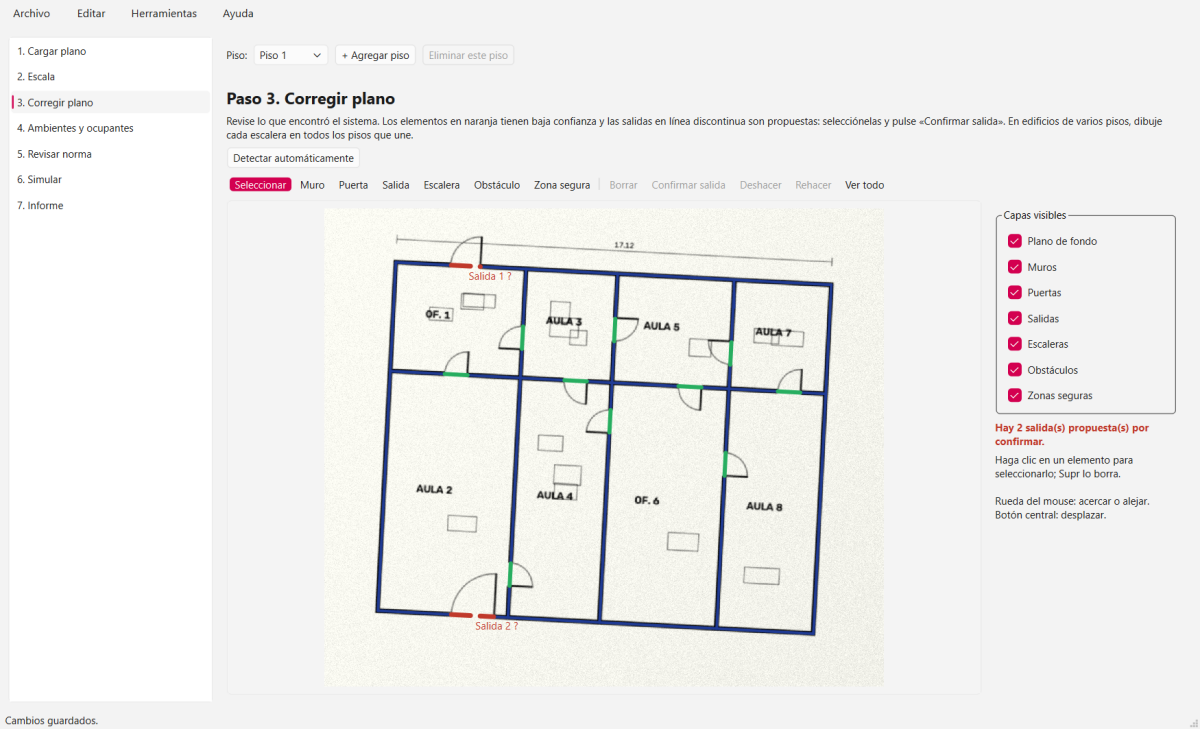
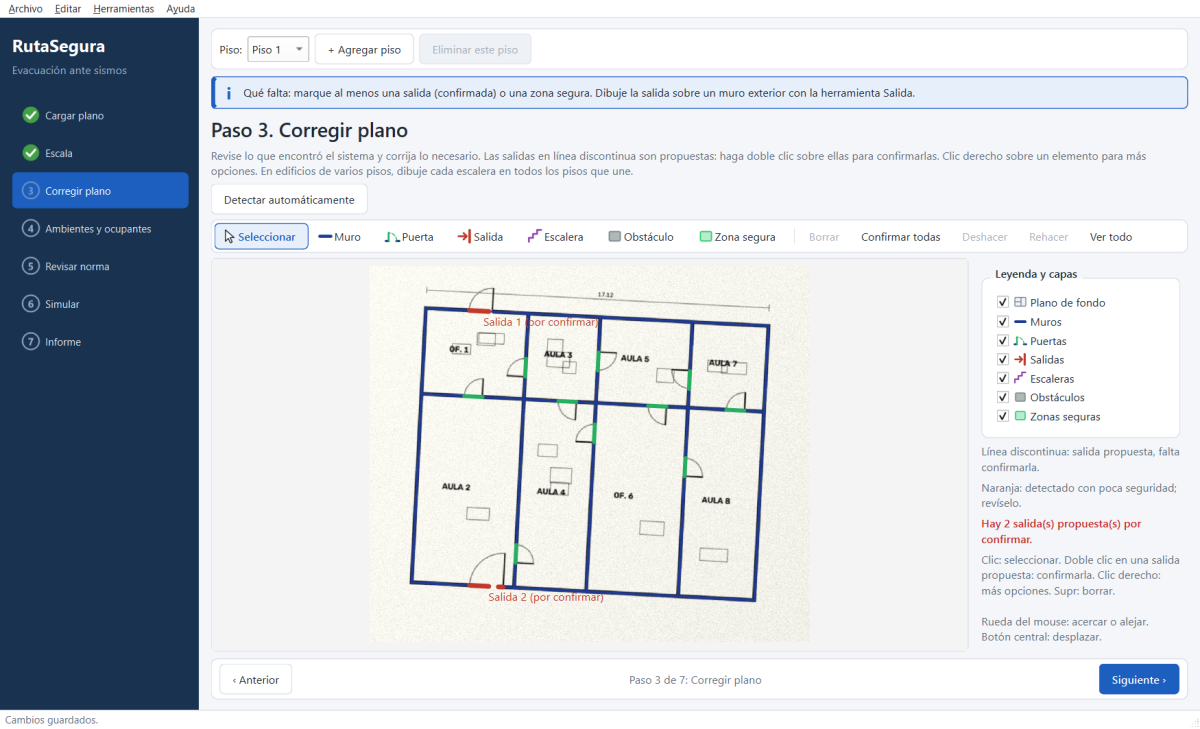
docs: manual, capturas, CHANGELOG y ADR-034 de la interfaz amigable

diff --git a/scripts/capture_screenshots.py b/scripts/capture_screenshots.py
@@ -1,6 +1,6 @@
 """Genera las capturas del manual de usuario (docs/img/*.png) con un plano sintético.
 
-Uso:  uv run python scripts/capture_screenshots.py
+Uso:  uv run python scripts/capture_screenshots.py [carpeta_de_salida]
 Trabaja en una base de datos temporal; no toca los proyectos del usuario.
 """
 
@@ -30,6 +30,7 @@ from rutasegura.presentation.main_window import (  # noqa: E402
     STEP_SIMULATE,
     MainWindow,
 )
+from rutasegura.presentation.theme import apply_theme  # noqa: E402
 from tests.fixtures.synthetic_plans import generate_plan  # noqa: E402
 
 OUT = ROOT / "docs" / "img"
@@ -52,8 +53,12 @@ def offscreen(widget: QWidget, width: int = 1400, height: int = 850) -> None:
 
 
 def main() -> None:
+    global OUT
+    if len(sys.argv) > 1:
+        OUT = Path(sys.argv[1])
     OUT.mkdir(parents=True, exist_ok=True)
     app = QApplication(sys.argv[:1])
+    apply_theme(app)
     with tempfile.TemporaryDirectory() as tmp:
         services = AppServices.open(Path(tmp) / "db" / "rs.db")
         try:
@@ -130,6 +135,10 @@ def capture(app: QApplication, services: AppServices, tmp: Path) -> None:
 
     w.go_to_step(STEP_REPORT)
     save(app, w, "09_informe")
+
+    w.add_floor()  # piso 2: selector de pisos y guía del paso 1
+    w.load_page.open_file(plan_file)
+    save(app, w, "10_varios_pisos")
     w._dirty = w._scenario_dirty = False
     w.close()
 

diff --git a/docs/manual_usuario.md b/docs/manual_usuario.md
@@ -44,10 +44,22 @@ Un **proyecto** es un local: un colegio, una oficina o una tienda.
 
 - **Proyecto nuevo:** use **Crear un proyecto nuevo** (o el menú Archivo › Nuevo proyecto) y
   escriba el nombre, el tipo de local y, si quiere, la dirección.
-- **Proyecto existente:** use **Abrir un proyecto existente**.
+- **Proyecto existente:** haga doble clic sobre él en la lista **Sus proyectos**, o use **Abrir
+  otro proyecto…**.
 
 Los cambios se guardan solos cada vez que pasa de un paso a otro y al cerrar el programa. También
 puede guardar con **Ctrl+S**.
+
+### Cómo lo guía el programa
+
+- **Barra de pasos (izquierda):** cada paso muestra un círculo con su número. Se vuelve un **✓
+  verde** cuando el paso está completo y un **! ámbar** cuando conviene revisar algo.
+- **Recuadro «Qué falta» (arriba):** dice qué le falta al paso en que está. Si falta algo de un
+  paso anterior, ofrece un botón para ir a ese paso, por ejemplo **Ir al paso 2**.
+- **Anterior / Siguiente (abajo):** pasan de un paso a otro. Puede saltar a cualquier paso desde
+  la barra de la izquierda.
+- **Mensajes:** los errores y avisos aparecen como una franja de color dentro de la ventana, no
+  como ventanas emergentes. Ciérrelos con **×**.
 
 ---
 
@@ -92,26 +104,44 @@ Al entrar, el programa **busca automáticamente** muros, puertas y salidas. Revi
 | Azul | Muro |
 | Verde | Puerta |
 | Rojo | Salida |
+| Morado | Escalera |
+| Gris | Obstáculo (mueble) |
+| Verde claro | Zona segura |
 | Naranja discontinuo | Algo que el programa no está seguro de haber detectado bien |
+
+El recuadro **Leyenda y capas** (a la derecha) repite estos colores. Cada casilla oculta o muestra
+un tipo de elemento.
 
 ### Herramientas
 
-| Herramienta | Qué hace |
-|---|---|
-| **Seleccionar** | Hace clic sobre un elemento para elegirlo. **Supr** lo borra. |
-| **Muro, Puerta, Salida** | Arrastre para dibujar. Con **Mayús** la línea queda recta. |
-| **Escalera, Obstáculo, Zona segura** | Arrastre para dibujar un rectángulo. |
-| **Deshacer / Rehacer** | Ctrl+Z / Ctrl+Y. |
-| **Ver todo** | Muestra el plano completo. |
+| Herramienta | Tecla | Qué hace |
+|---|---|---|
+| **Seleccionar** | V | Clic para elegir un elemento. **Supr** lo borra. |
+| **Muro** | M | Arrastre para dibujar. Con **Mayús** la línea queda recta. |
+| **Puerta** | P | Arrastre sobre el muro: se encaja sola en él y le abre el hueco. |
+| **Salida** | S | Igual que la puerta, pero sobre un muro exterior. |
+| **Escalera** | E | Arrastre para dibujar un rectángulo. |
+| **Obstáculo** | O | Muebles u objetos que no se pueden atravesar. |
+| **Zona segura** | Z | Patio o explanada a la que se puede evacuar. |
+| **Deshacer / Rehacer** | Ctrl+Z / Ctrl+Y | |
+| **Ver todo** | | Muestra el plano completo. |
 
+- **Clic derecho sobre un elemento:** abre un menú para confirmarlo, cambiarle el nombre o
+  borrarlo.
+- **Doble clic sobre una salida o escalera:** cambia su nombre.
 - **Moverse por el plano:** la rueda del mouse acerca y aleja; el botón central desplaza la vista.
-- **Capas visibles:** permiten ocultar el fondo o un tipo de elemento para ver mejor.
 
 ### Salidas propuestas
 
-Las salidas que encontró el programa aparecen **en línea discontinua con «?»**. Selecciónelas y
-pulse **Confirmar salida**, o bórrelas si no son salidas. No se puede simular con salidas sin
-confirmar.
+Las salidas que encontró el programa aparecen **en línea discontinua, con «(por confirmar)»**.
+
+- **Para confirmar una:** haga **doble clic** sobre ella, o use clic derecho › **Confirmar
+  salida**.
+- **Para confirmarlas todas:** pulse **Confirmar todas**.
+- **Si no es una salida:** bórrela.
+
+Las salidas sin confirmar se tratan como cerradas en la simulación. Las salidas que usted dibuja
+quedan confirmadas.
 
 **Zonas seguras:** si su local tiene una zona segura interna, como un patio, márquela. Las personas
 que llegan a ella cuentan como evacuadas.
@@ -157,10 +187,17 @@ que llegan a ella cuentan como evacuadas.
 2. Al terminar se reproduce la animación.
    - **Controles:** reproducir y pausa, velocidad (0.5× a 8×) y la barra de tiempo.
    - **Mapa de calor:** muestra dónde se acumuló la gente.
-3. A la derecha verá:
+3. A la derecha verá tres tarjetas:
    - el **tiempo total de evacuación**;
-   - el tiempo de cada salida;
-   - los **cuellos de botella**, del más grave al menos grave.
+   - el **tiempo para evacuar al 90 %**;
+   - las **personas evacuadas**.
+
+   El color indica el resultado:
+   - **verde:** salieron todos sin congestión;
+   - **ámbar:** hubo zonas de congestión;
+   - **rojo:** alguien no pudo salir.
+
+   Debajo verá el tiempo de cada salida y los **cuellos de botella**, del más grave al menos grave.
 
 **Semilla:** con la misma semilla y los mismos datos, la simulación da siempre el mismo resultado.
 
@@ -240,9 +277,14 @@ Más detalles en [calibracion.md](calibracion.md).
 Corríjalos en el paso 3. La detección funciona mejor con planos limpios, en blanco y negro y bien
 enfocados. Si la foto está torcida, enderécela en el paso 1.
 
-**Dice que las personas de un ambiente «no tienen una salida alcanzable».**
+**Dice que las personas de un ambiente «no pueden llegar a ninguna salida».**
 Revise que ese ambiente tenga una puerta, que no haya un muro cerrando el paso y que el local
 tenga al menos una salida confirmada.
+
+**Dice que un ambiente «quedó conectado con el exterior».**
+El contorno del edificio tiene un hueco: un muro exterior que no llega a cerrar en una esquina. En
+el paso 3, acerque la vista a las esquinas y dibuje el tramo de muro que falta. Las salidas
+reales se marcan con la herramienta **Salida**, no como puerta.
 
 **Dice que una escalera «no tiene una escalera correspondiente» en otro piso.**
 Dibuje la escalera también en el piso de abajo, en el mismo lugar. Si ese piso tiene varias
@@ -250,7 +292,8 @@ escaleras, dibújelas en el mismo orden que en el piso de arriba para que tengan
 nombres.
 
 **Dice que hay salidas propuestas sin confirmar.**
-Vuelva al paso 3, seleccione las salidas con «?» y pulse **Confirmar salida**, o bórrelas.
+Vuelva al paso 3 y haga doble clic sobre cada salida «(por confirmar)», o pulse **Confirmar
+todas**. Si alguna no es una salida, bórrela.
 
 **Cargué un plano nuevo y desapareció lo que había corregido.**
 Al cargar otra imagen, el plano anterior ya no corresponde. Hay que corregir el plano nuevo.

diff --git a/docs/CHANGELOG.md b/docs/CHANGELOG.md
@@ -4,6 +4,35 @@ Formato basado en [Keep a Changelog](https://keepachangelog.com/es-ES/1.1.0/).
 
 ## [Sin publicar]
 
+### Interfaz más amigable (2026-11-11)
+
+#### Agregado
+- **Tema visual propio:** colores claros, letra más grande, botones redondeados y un botón azul
+  para la acción principal de cada paso. Es local y no descarga fuentes ni íconos.
+- **Barra de pasos con estado:** cada paso muestra ✓ cuando está completo y ! cuando hay algo que
+  revisar. El estado lo calcula `application/progress.py` (sin Qt, con pruebas).
+- **Recuadro «Qué falta»:** dice qué le falta al paso actual. Si falta algo de un paso anterior,
+  ofrece un botón para ir a ese paso. En el paso 5 invita a revisar las observaciones normativas.
+- **Botones «‹ Anterior» y «Siguiente ›»** comunes a todos los pasos.
+- **Bienvenida con «Sus proyectos»:** lista de proyectos para abrirlos con doble clic.
+- **Editor:**
+  - íconos con los colores del plano en las herramientas y en las capas, que sirven de leyenda;
+  - atajos de teclado (V, M, P, S, E, O, Z) y ayudas al pasar el mouse;
+  - menú de clic derecho para confirmar, cambiar el nombre o borrar un elemento;
+  - doble clic para confirmar una salida propuesta o cambiar el nombre de una salida, escalera o
+    zona segura (con deshacer);
+  - las salidas propuestas dicen «(por confirmar)» en lugar de «?».
+- **Resultados en tarjetas:** tiempo total, tiempo al 90 % y evacuados, con color de semáforo.
+  Rojo si alguien no salió, ámbar si hubo congestión y verde si no. No se usan umbrales de tiempo
+  inventados.
+
+#### Cambiado
+- **Errores y avisos en franjas** de color dentro de la ventana, en lugar de ventanas emergentes
+  (ADR-034). Las confirmaciones de borrado siguen siendo diálogos.
+- El aviso de reglas no verificadas del paso 5 usa la misma franja.
+- «Confirmar salida», «Confirmar todas» y «Borrar» también están en el menú Editar.
+- Capturas del manual regeneradas y manual actualizado.
+
 ### Correcciones posteriores al Hito 6 (2026-11-10)
 
 #### Corregido

diff --git a/docs/decisiones.md b/docs/decisiones.md
@@ -418,3 +418,22 @@ Formato corto: contexto, decisión, alternativas, consecuencias.
 - **Efecto:** el rendimiento no cambia (unos 480 pasos/s con 500 agentes). En pasillos más
   angostos que la persona, el modelo la deja pasar rozando: el estrechamiento se refleja en la
   densidad y en la velocidad, no en un bloqueo permanente.
+
+## ADR-034: mensajes dentro de la ventana y guía de pasos
+
+- **Fecha:** 2026-11-11 · **Estado:** aceptada
+- **Contexto:** los usuarios no son técnicos (RNF03, meta SUS ≥ 70). Las ventanas emergentes
+  interrumpen y se cierran sin leer, y no quedaba claro qué faltaba para avanzar.
+- **Decisión:**
+  - Errores y avisos se muestran en una franja de color sobre el paso, con **×** para cerrarla. Se
+    limpia al cambiar de paso. Solo las confirmaciones destructivas siguen como diálogo.
+  - Una segunda franja fija, «Qué falta», se calcula con `wizard_progress` (capa de aplicación,
+    sin Qt). Devuelve códigos (`Issue`) y la presentación les pone texto.
+  - Tema propio sobre el estilo Fusion, con paleta clara fija, para verse igual en Windows 10 y 11
+    con o sin modo oscuro. Los íconos se dibujan con `QPainter`, sin archivos ni descargas.
+- **Alternativas:**
+  - `QWizard` de Qt: obliga a un orden lineal y no permite volver libremente a un paso.
+  - Paquetes de íconos externos (por ejemplo, QtAwesome): suman una dependencia y fuentes.
+- **Limitación:** el estado de los pasos se calcula para el piso en edición. En edificios de
+  varios pisos hay que revisar cada piso.
+
